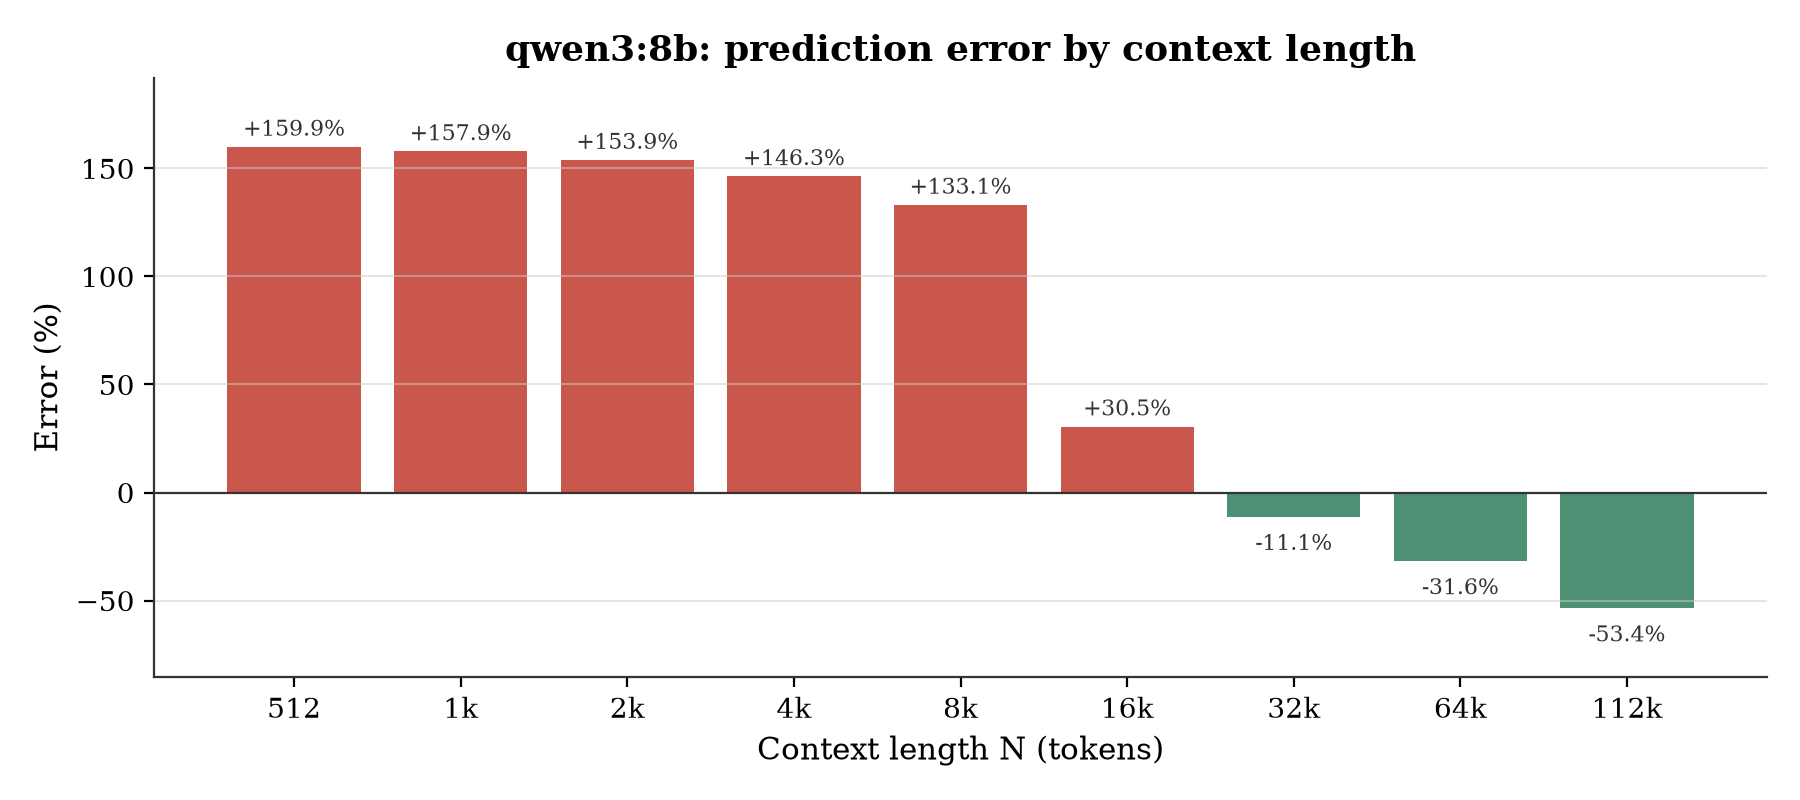
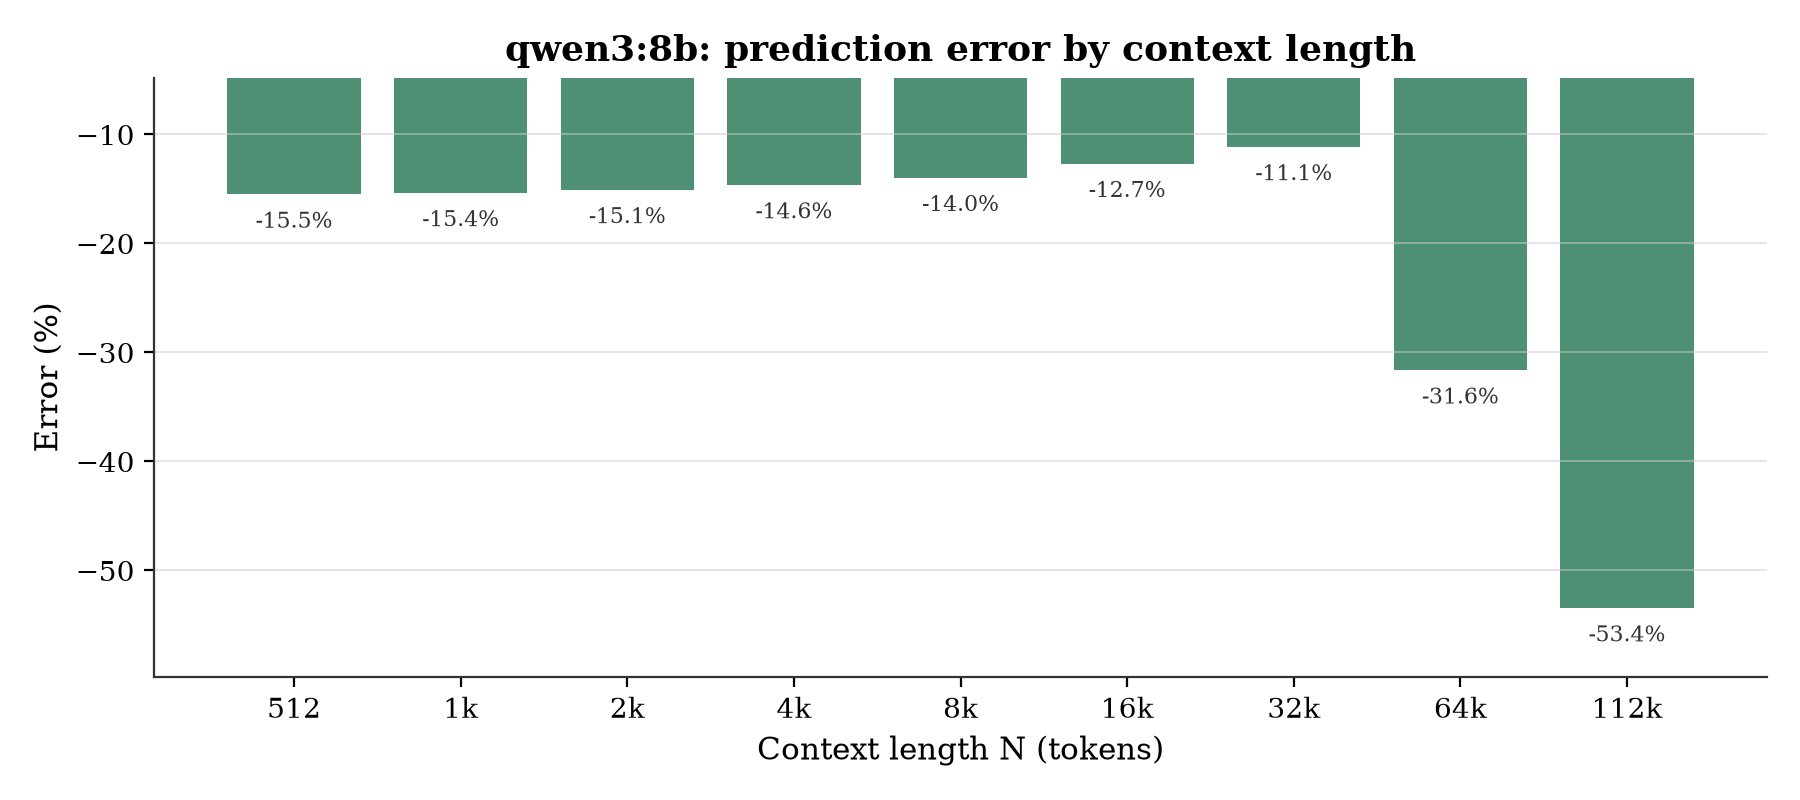
llama3.1 v1

diff --git a/results/rq4/csvs/qwen3_8b/rq4_summary_table.tex b/results/rq4/csvs/qwen3_8b/rq4_summary_table.tex
@@ -4,12 +4,12 @@
 \toprule
 $N$ (tokens) & Predicted (GB) & Measured (GB) & Error (\)) \\
 \midrule
-512 & 5.87 & 15.27 \pm 0.00 & +159.95 \\
-1,024 & 5.95 & 15.34 \pm 0.00 & +157.87 \\
-2,048 & 6.10 & 15.49 \pm 0.00 & +153.86 \\
-4,096 & 6.40 & 15.77 \pm 0.00 & +146.34 \\
-8,192 & 7.01 & 16.33 \pm 0.00 & +133.11 \\
-16,384 & 8.21 & 10.72 \pm 4.88 & +30.52 \\
+512 & 5.87 & 4.96 \pm 0.00 & -15.50 \\
+1,024 & 5.95 & 5.04 \pm 0.00 & -15.35 \\
+2,048 & 6.10 & 5.18 \pm 0.00 & -15.08 \\
+4,096 & 6.40 & 5.47 \pm 0.00 & -14.63 \\
+8,192 & 7.01 & 6.03 \pm 0.00 & -13.96 \\
+16,384 & 8.21 & 7.17 \pm 0.00 & -12.67 \\
 32,768 & 10.63 & 9.45 \pm 0.00 & -11.13 \\
 65,536 & 15.46 & 10.57 \pm 0.00 & -31.63 \\
 114,688 & 22.71 & 10.57 \pm 0.00 & -53.45 \\
